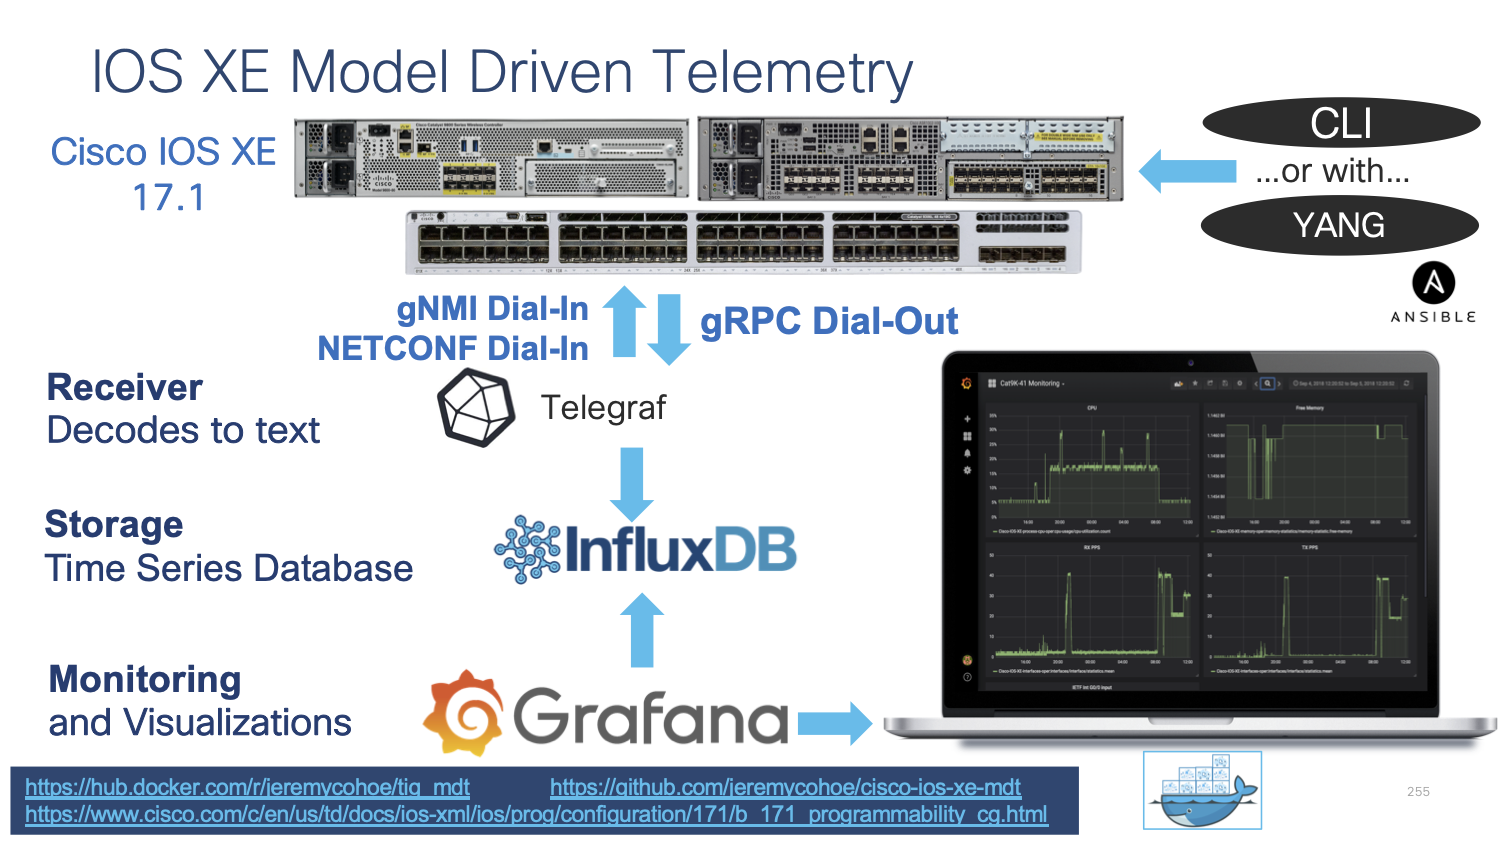
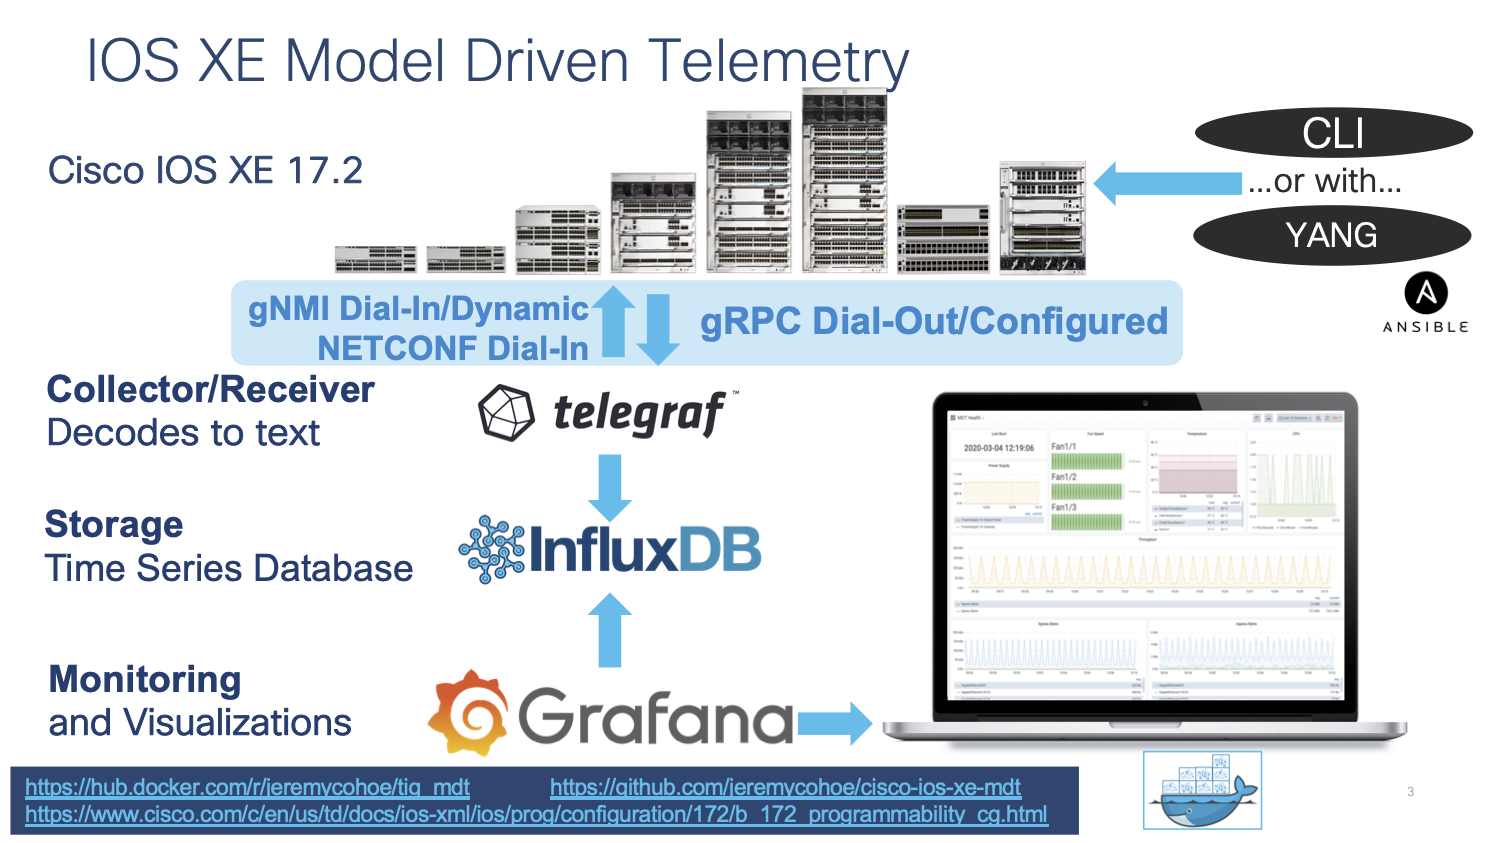
Add files via upload

diff --git a/README.md b/README.md
@@ -8,13 +8,17 @@ Model-Driven Telemetry
 
 Verify clock synchronization
 
-Configured Subscriptions
+NETCONF Dial-In Dynamic Subscriptions
+
+gNMI Dial-In Dynamic Subscriptions
+
+gRPC Dial-Out Configured Subscriptions
 
 Explore Telegraf
 
 Exploring InfluxdDB
 
-Grafana Dashboard
+Exploring Grafana Dashboards
 
 Conclusion
 
@@ -27,9 +31,9 @@ Network data collection for today s high-density platforms and scale is becoming
 
 There are two main MDT Publication/Subscription models, Dial-in and Dial-out:
 
-**Dial-in** is a dynamic model. An application based on this model has to open a session to the network device and send one or more subscriptions reusing the same session. The network device will send the publications to the application for as long as the session stays up.
+**Dial-in** is a dynamic model. An application based on this model has to open a session to the network device and send one or more subscriptions reusing the same session. The network device will send the publications to the application for as long as the session stays up. **NETCONF** and **gNMI** are the Dial-In telemetry interfaces. 
 
-**Dial-out** is a configured model **.** The subscriptions need to be statically configured on the network device using any of the available interfaces (CLI, APIs, etc.) and the device will open a session with the application. If the session goes down, the device will try to open a new session.
+**Dial-out** is a configured model. The subscriptions need to be statically configured on the network device using any of the available interfaces (CLI, APIs, etc.) and the device will open a session with the application. If the session goes down, the device will try to open a new session. **gRPC** is the Dial-Out telemetry interface.
 
 ![](1-pubsub.png)
 
@@ -93,6 +97,29 @@ You may need to click  "Update now" several times before the Windows host is abl
 The time is in now sync across all hosts.
 
 ![](2-ntp-on-windows.png)
+
+## NETCONF Dial-In Model Driven Telemetry
+
+Unlike the gRPC **(configured)**, the NETCONF Model Driven Telemetry interface needs only to be enabled within IOS XE - once enabled the Dial-In **(dynamic)** connection can be established from the tooling. 
+
+To enable the NETCONF use the following CLI. Refer to the **NETCONNF** module for more details.
+
+```
+netconf-yanng
+```
+
+NOTE: Enabling NETCONF-YANG is required for Model Driven Telemetry, even if gRPC or gNMI is the telemetry interface being used. 
+
+## gNMI Dial-In Model Driven Telemetry
+
+To enable the gNMI Dial-In Model Driven Telemetry interface use the following CLI's. Refer to the **gNMI** module for more details.
+
+```
+gnmi-yang
+gnmi-yang server
+```
+
+NOTE: This enables gNMI only in insecure mode. The CLI **gnmi-yang secure-server** enables the gNMI server in secure mode and requires TLS certificates to be loaded into IOS XE first. Refer to the **gNMI Module** for details on this configuration. gNMI insecure mode is used in the following examples.
 
 
 # gRPC Dial-Out Configured Subscriptions
@@ -204,6 +231,7 @@ receiver ip address 10.1.1.3 57500 protocol grpc-tcp
 
 Note: If the state does not show  "Connected" then ensure the Docker container with the Telegraf receiver is running correctly. Follow the next steps to confirm status of each component.
 
+
 ## Telegraf, Influx, Grafana (TIG)
 
 ![](4-mdt-solution.png)
@@ -221,16 +249,25 @@ auto@automation:~$ docker ps
 ```
 auto@automation:~$ docker exec -it tig_mdt /bin/bash
 
-# cd /root/telegraf
+ <You are now within the Docker container>
 
+# cd /root/telegraf
+# ls
+```
+
+There is one file for each telemetry interface: **NETCONF**, **gRPC**, and **gNMI**. Review each file to understand which. YANG data is being collected by which interface.
+
+```
 # cat telegraf-grpc.conf
+# cat telegraf-gnmi.conf
+# cat telegraf-netconf.conf
 ```
 
 ![](6-docker_exec_cat_grpc.png)
 
-Once inside the Docker container navigate to the telegraf directory and review the configuration file and log by tailing the log file with the command **tail -F /tmp/telegraf-grpc.log** 
+Inside the Docker container navigate to the telegraf directory and review the configuration file and log by tailing the log file with the command **tail -F /tmp/telegraf-grpc.log** 
 
-This configuration file shows us the following:
+The **telegraf-grpc.conf** configuration file shows us the following:
 
 **gRPC Dial-Out Telemetry Input:** This defines the telegraf plugin (cisco\_telemetry\_mdt) that is being used to receive the data, as well as the port (57500)
 
